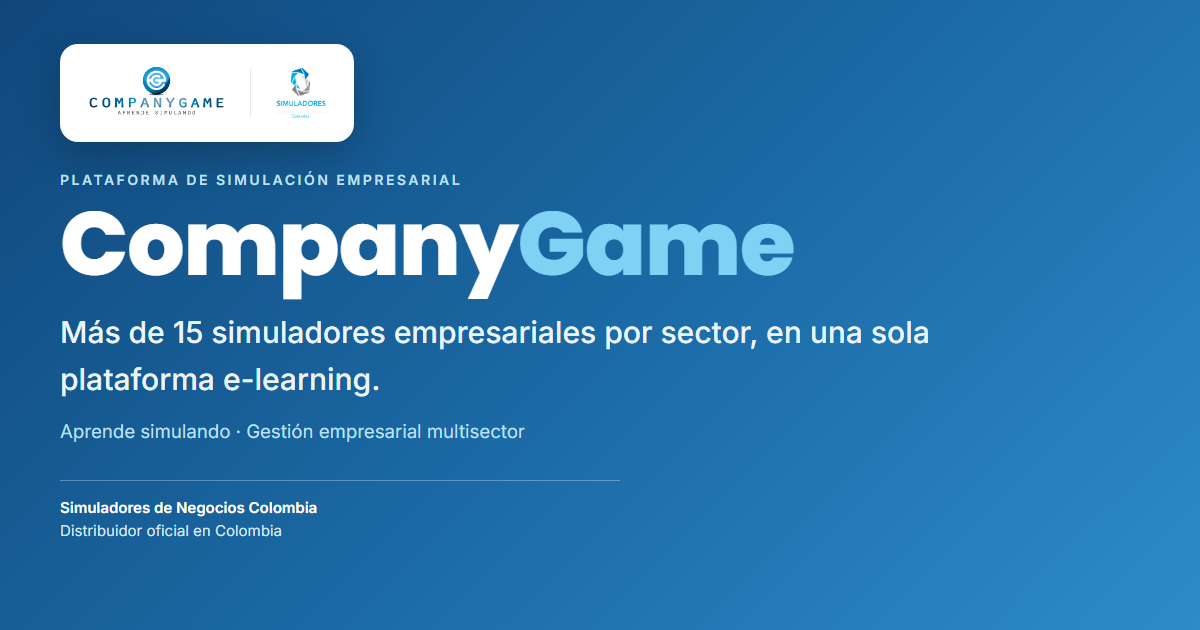
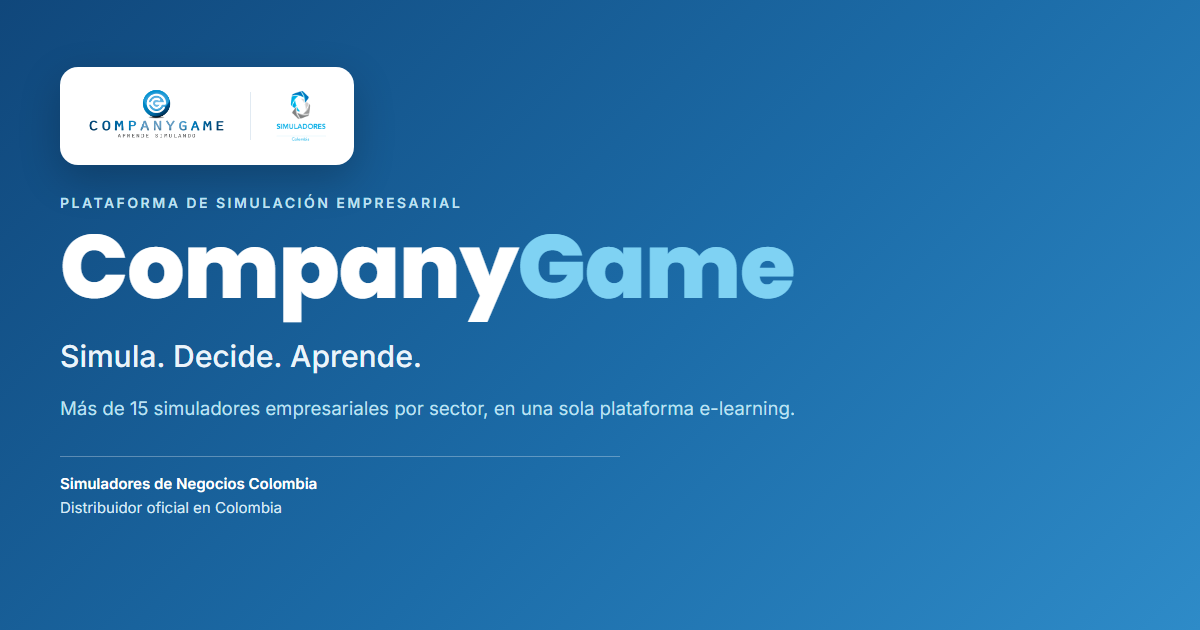
Nuevo lema de portada: Simula. Decide. Aprende.

Changed region(s): [[0.0308, 0.0603, 0.7708, 0.6937], [0.0308, 0.754, 0.2775, 0.8746]]

diff --git a/index.html b/index.html
@@ -330,8 +330,8 @@
       </div>
       <div class="cover-kicker">Plataforma de simulación empresarial</div>
       <h1 class="cover-title">Company<span>Game</span></h1>
-      <p class="cover-tagline">Más de 15 simuladores empresariales por sector, en una sola plataforma e-learning.</p>
-      <p class="cover-sub">Aprende simulando · Gestión empresarial multisector</p>
+      <p class="cover-tagline">Simula. Decide. Aprende.</p>
+      <p class="cover-sub">Más de 15 simuladores empresariales por sector, en una sola plataforma e-learning.</p>
       <p class="cover-foot"><strong>Simuladores de Negocios Colombia</strong><br>Distribuidor oficial en Colombia</p>
     </div>
   </section>
